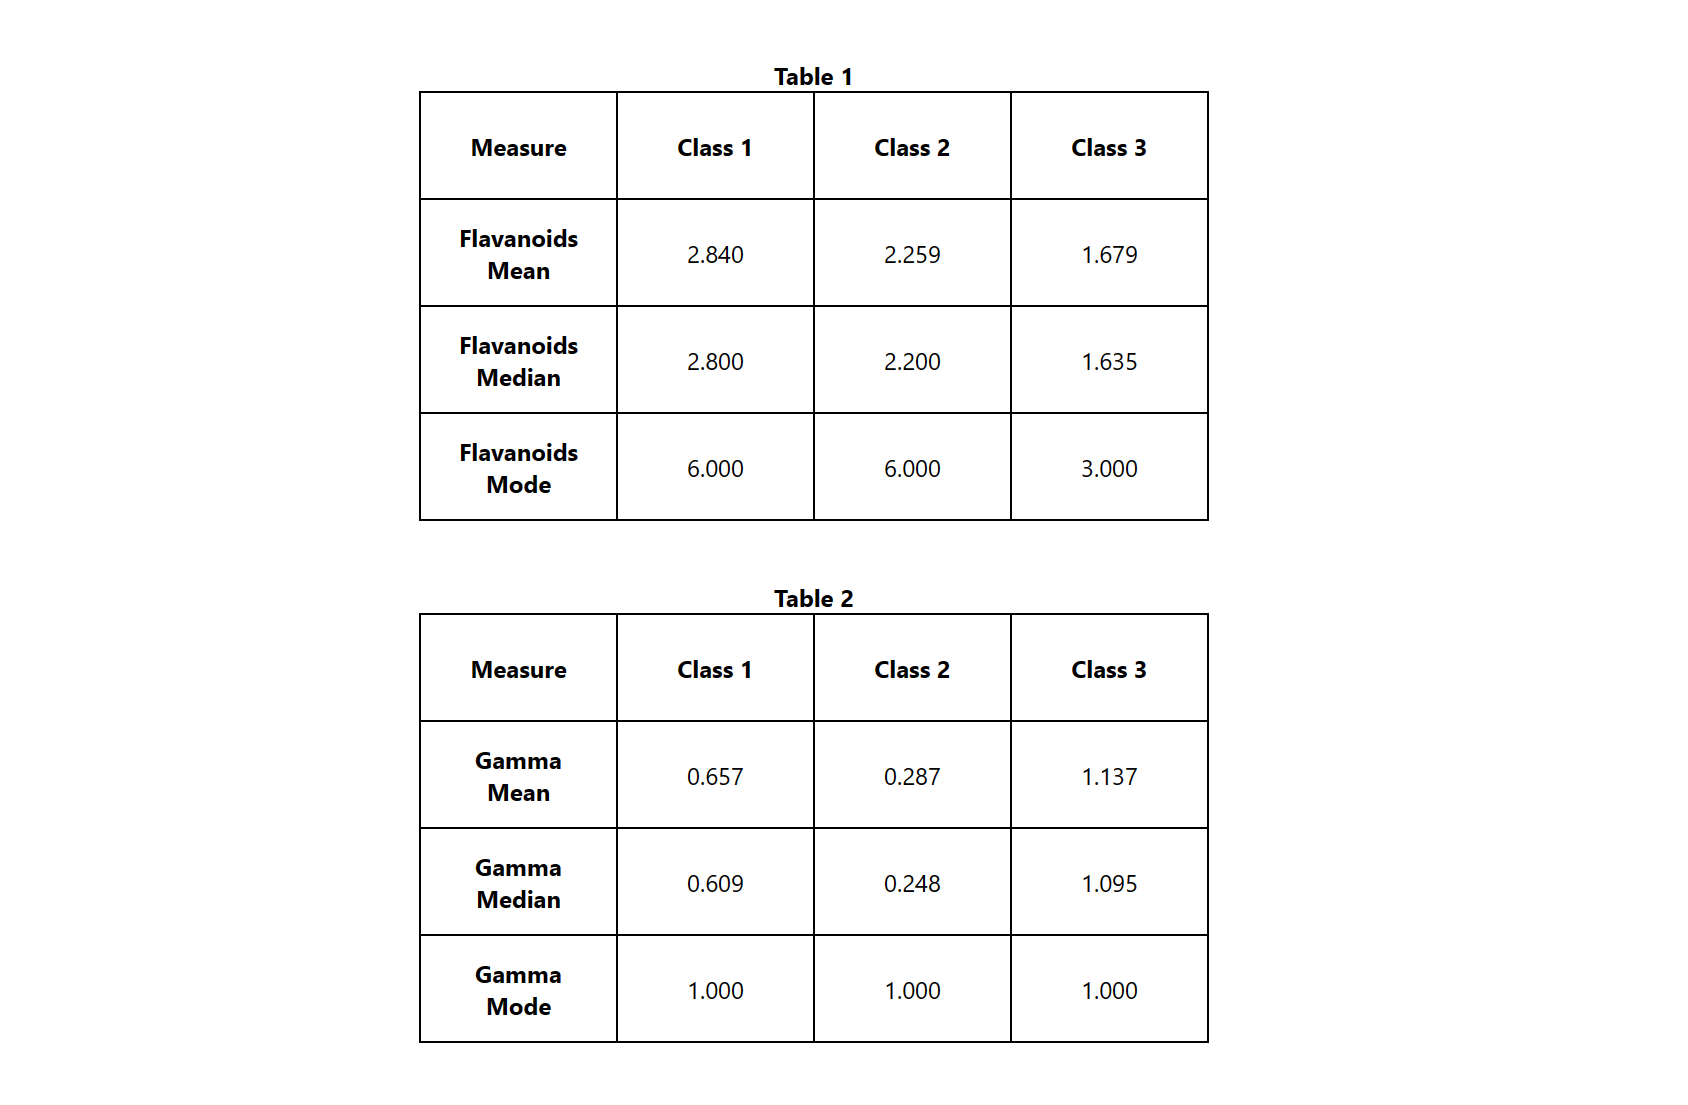
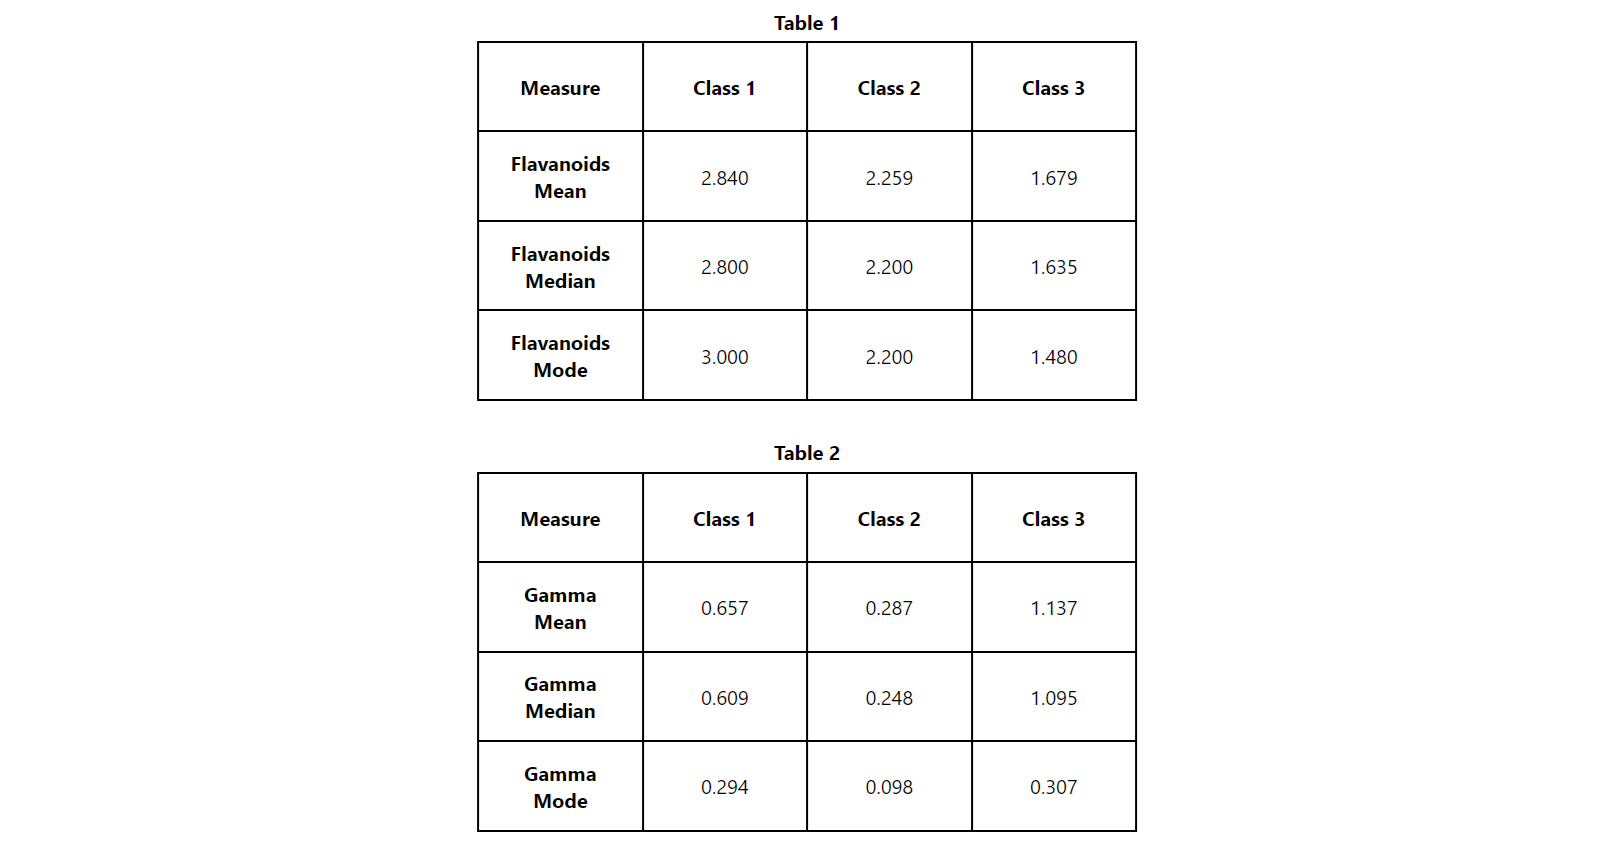
Gamma mode issue fixed

diff --git a/src/App.tsx b/src/App.tsx
@@ -55,6 +55,7 @@ function getTablesData() {
 
   // Calculate statistics for flavanoidsData
   flavanoidsData.forEach((wine: any) => {
+    console.log(wine.counts)
     wine.mean = useMeanCalculator(wine.flavanoids);
     wine.median = useMedianCalculator(wine.flavanoids);
     wine.mode = useModeCalculator(wine.counts);
@@ -62,6 +63,7 @@ function getTablesData() {
 
   // Calculate statistics for gammaData
   gammaData.forEach((wine: any) => {
+    console.log(wine.counts)
     wine.mean = useMeanCalculator(wine.gamma);
     wine.median = useMedianCalculator(wine.gamma);
     wine.mode = useModeCalculator(wine.counts);
@@ -82,10 +84,12 @@ function App() {
   }, []);
 
   return (
-    <div style={{ display: "flex", flexDirection: "column" }}>
-      <Table title={"Table 1"} data={tablesData.flavanoidsData} />
-      <Table title={"Table 2"} data={tablesData.gammaData} />
-    </div>
+    tablesData.flavanoidsData.length && tablesData.gammaData.length && (
+      <div style={{ display: "flex", flexDirection: "column" }}>
+        <Table title={"Table 1"} data={tablesData.flavanoidsData} />
+        <Table title={"Table 2"} data={tablesData.gammaData} />
+      </div>
+    )
   );
 }
 

diff --git a/src/hooks/useModeCalculator.ts b/src/hooks/useModeCalculator.ts
@@ -1,14 +1,21 @@
-const useModeCalculator = (data:any) => {
-    let highest = null;
-    for (const key in data) {
-        const value = data[key];
-        if (typeof value === 'number') {
-          if (highest === null || value > highest) {
-            highest = value;
-          }
-        }
-    }
-    return highest?.toFixed(3);
+const useModeCalculator = (data: any) => {
+  let mode: number | undefined = undefined;
+  let maxCount = 0;
+
+  for (const key in data) {
+    const count = data[key];
+    const num = Number(key);
+
+    if (count > maxCount) {
+      mode = num;
+      maxCount = count;
+    } else if (mode && count === maxCount && num < mode) {
+      // updating mode if a smaller number comes with same count
+      mode = num;
+    } 
+  }
+
+  return mode?.toFixed(3);
 }
 
 export default useModeCalculator

diff --git a/src/components/Table.tsx b/src/components/Table.tsx
@@ -26,7 +26,7 @@ const Table: React.FC<TableProps> = ({ title, data }) => {
               <div className="cell bold">Class {item.alcohol}</div>
               <div className="cell">{item.mean}</div>
               <div className="cell">{item.median}</div>
-              <div className="cell">{item.mode}</div>
+              <div className="cell">{ item.mode }</div>
             </div>
           ))}
       </div>

diff --git a/src/App.css b/src/App.css
@@ -1,6 +1,6 @@
 h4 {
   text-align: center;
-  margin-block: 40px 0px;
+  margin-block: 10px 5px;
 }
 
 .table {
@@ -8,6 +8,7 @@ h4 {
   width: fit-content;
   text-align: center;
   margin-inline: auto;
+  margin-bottom: 20px;
   border: 1px solid black;
 }
 
